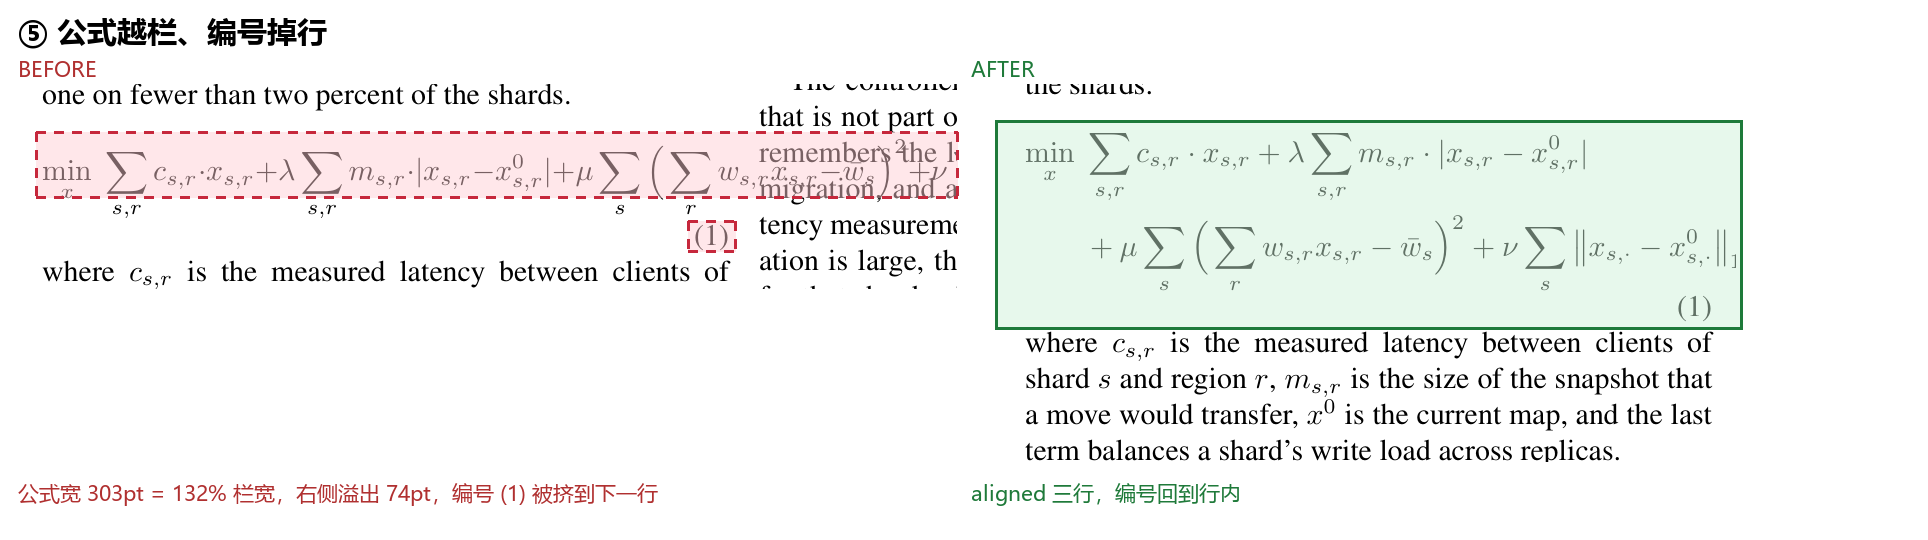
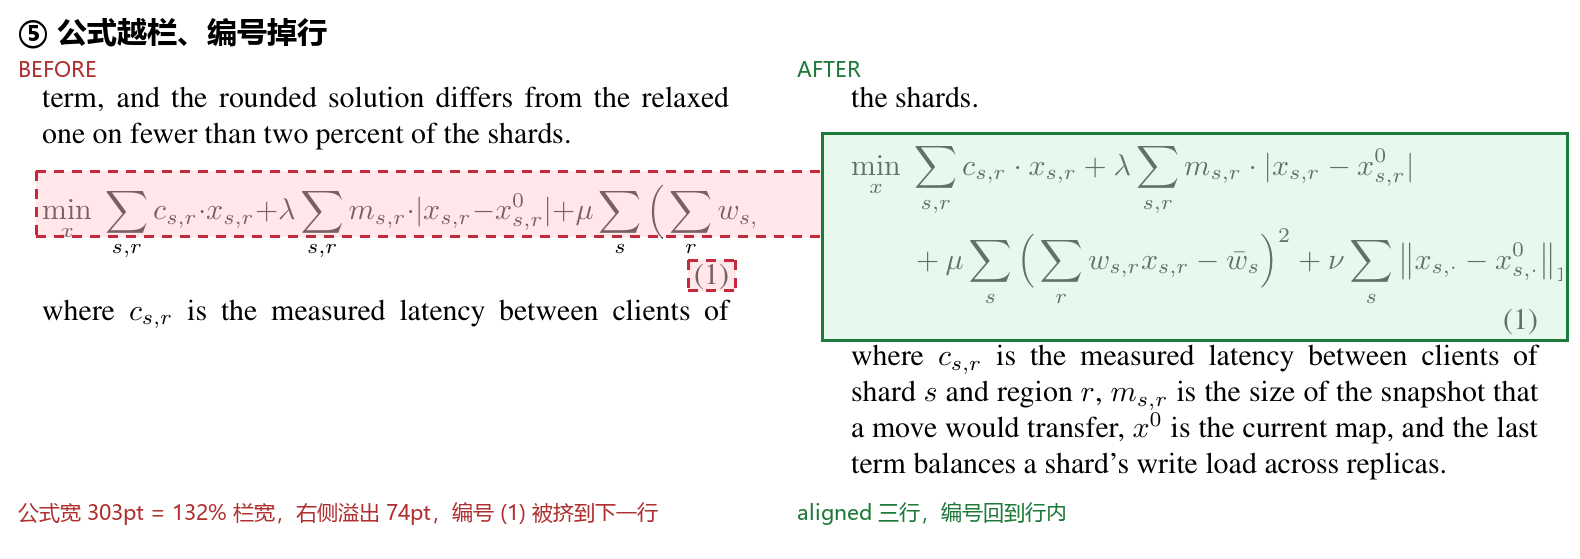
Crop comparison panels to whole lines so no glyph is cut at the edges

diff --git a/examples/demo2/compose_compare.py b/examples/demo2/compose_compare.py
@@ -1,4 +1,4 @@
-# -*- coding: utf-8 -*-
+# -*- coding: utf-8 -*-
 """知乎风格局部对比图：每行一对裁剪，红虚线=修复前的问题，绿虚线=修复后。"""
 import fitz
 from PIL import Image, ImageDraw, ImageFont
@@ -61,10 +61,42 @@ def block_of(page, text):
             return r
     return h
 
-def crop(page, rect, pad=2):
-    r = fitz.Rect(rect.x0 - pad, rect.y0 - pad, rect.x1 + pad, rect.y1 + pad)
+def crop(page, rect, pad=2, pady=None):
+    py = pad if pady is None else pady
+    r = fitz.Rect(rect.x0 - pad, rect.y0 - py, rect.x1 + pad, rect.y1 + py)
     pix = page.get_pixmap(matrix=fitz.Matrix(ZOOM, ZOOM), clip=r)
     return Image.frombytes("RGB", (pix.width, pix.height), pix.samples), r
+
+
+def rows_of(page):
+    """页面上的文本行矩形（用于把裁剪边对齐到整行）。"""
+    out = []
+    for b in page.get_text("dict")["blocks"]:
+        for l in b.get("lines", []):
+            r = fitz.Rect(l["bbox"])
+            if r.height > 1 and r.width > 20:
+                out.append(r)
+    return out
+
+
+def snap(page, rect):
+    """把裁剪边扩到整行：上下各取相邻完整行，不留半截字。"""
+    rs = [r for r in rows_of(page)
+          if r.x1 > rect.x0 + 1 and r.x0 < rect.x1 - 1]
+    top, bot = rect.y0, rect.y1
+    inside = [r for r in rs if r.y0 <= rect.y0 <= r.y1]
+    if inside:
+        top = min(r.y0 for r in inside)
+    else:
+        up = [r.y0 for r in rs if r.y0 < rect.y0]
+        top = max(up) if up else rect.y0
+    inside = [r for r in rs if r.y0 <= rect.y1 <= r.y1]
+    if inside:
+        bot = max(r.y1 for r in inside)
+    else:
+        down = [r.y1 for r in rs if r.y1 > rect.y1]
+        bot = min(down) if down else rect.y1
+    return fitz.Rect(rect.x0, top, rect.x1, bot)
 
 
 def mark(layer, r, origin, off, color, tint, scale, dashed_flag=True, w=3, dash=9):
@@ -138,13 +170,13 @@ def main():
     r1 = hit(bdoc, 1, "quorum constraint.")
     b0, b1 = col_of(r1.x0)
     box1 = fitz.Rect(b0, r1.y0 - 2, r1.x1 + 2, r1.y1 + 2)
-    rb = fitz.Rect(b0, r1.y0 - 52, b1, r1.y1 + 10)
-    ib, ub = crop(bdoc[1], rb)
+    rb = snap(bdoc[1], fitz.Rect(b0, r1.y0 - 52, b1, r1.y1 + 10))
+    ib, ub = crop(bdoc[1], rb, pady=0)
     r2 = hit(adoc, 1, "quorum constraint.")
     a0, a1 = col_of(r2.x0)
     box2 = fitz.Rect(a0, r2.y0 - 2, r2.x1 + 2, r2.y1 + 2)
-    ra = fitz.Rect(a0, r2.y0 - 52, a1, r2.y1 + 10)
-    ia, ua = crop(adoc[1], ra)
+    ra = snap(adoc[1], fitz.Rect(a0, r2.y0 - 52, a1, r2.y1 + 10))
+    ia, ua = crop(adoc[1], ra, pady=0)
     rows.append(("① 段落末行（寡行）", ib, ub, [box1], ia, ua, [box2],
                  "末行只占栏宽 33%", "末行撑到 66%"))
 
@@ -168,7 +200,7 @@ def main():
     ta = tbl(adoc, 2, ca)
     ra = fitz.Rect(LEFT[0] - 8, ca.y0 - 6, LEFT[1] + 6, ta.y1 + 26)
     ia, ua = crop(adoc[2], ra)
-    rows.append(("② 表格没撑满栏宽", ib, ub, [tb], ia, ua, [ta],
+    rows.append(("③ 表格没撑满栏宽", ib, ub, [tb], ia, ua, [ta],
                  f"表宽 {tb.width:.0f}pt / 栏宽 229pt（{tb.width / 229 * 100:.0f}%），两侧各空 {(229 - tb.width) / 2:.0f}pt",
                  f"tabular* 拉满 {ta.width:.0f}pt（= 版心宽）"))
 
@@ -183,7 +215,7 @@ def main():
     ib, ub = crop(bdoc[1], rb)
     ra = fitz.Rect(RIGHT[0] - 4, y0, RIGHT[1] + 4, y1)
     ia, ua = crop(adoc[1], ra)
-    rows.append(("③ 图片两侧留白", ib, ub,
+    rows.append(("④ 图片两侧留白", ib, ub,
                  [fb_rect, fitz.Rect(fb_rect.x1, fb_rect.y0, RIGHT[1], fb_rect.y1)],
                  ia, ua, [fa_rect],
                  "图宽 156pt（68%），右侧空 73pt", "width=\\linewidth 顶到栏边"))
@@ -204,33 +236,33 @@ def main():
     obx = same_line_extent(bdoc[1], mb)
     obx.x1 = min(obx.x1, LEFT[1] + 74)
     eqline = fitz.Rect(obx.x0 - 2, obx.y0 - 2, obx.x1 + 2, obx.y1 + 2)
-    rb = fitz.Rect(LEFT[0] - 6, mb.y0 - 22, LEFT[1] + 74, eqb.y1 + 10)
-    ib, ub = crop(bdoc[1], rb)
+    rb = snap(bdoc[1], fitz.Rect(LEFT[0] - 6, mb.y0 - 26, 308.0, eqb.y1 + 10))
+    ib, ub = crop(bdoc[1], rb, pady=0)
     ma = eq_anchor(adoc[1])
     oa = hit(adoc, 1, "(1)")
     blk = fitz.Rect(62, ma.y0 - 6, LEFT[1] + 10, oa.y1 + 2)
-    ra = fitz.Rect(56, ma.y0 - 16, LEFT[1] + 6, oa.y1 + 44)
-    ia, ua = crop(adoc[1], ra)
-    rows.append(("④ 公式越栏、编号掉行", ib, ub, [eqline, fitz.Rect(eqb.x0 - 2, eqb.y0, eqb.x1 + 2, eqb.y1)],
+    ra = snap(adoc[1], fitz.Rect(56, ma.y0 - 16, LEFT[1] + 6, oa.y1 + 44))
+    ia, ua = crop(adoc[1], ra, pady=0)
+    rows.append(("⑤ 公式越栏、编号掉行", ib, ub, [eqline, fitz.Rect(eqb.x0 - 2, eqb.y0, eqb.x1 + 2, eqb.y1)],
                  ia, ua, [blk],
                  f"公式宽 {obx.width:.0f}pt = {obx.width / 229 * 100:.0f}% 栏宽，右侧溢出 {obx.x1 - LEFT[1]:.0f}pt，编号 (1) 被挤到下一行",
                  "aligned 三行，编号回到行内"))
 
     # ⑤ 章节层级：2.1.1 → 行内 paragraph
     hb = hit(bdoc, 1, "2.1.1")
-    rb = fitz.Rect(LEFT[0], hb.y0 - 22, LEFT[1], hb.y1 + 40)
-    ib, ub = crop(bdoc[1], rb)
+    rb = snap(bdoc[1], fitz.Rect(LEFT[0], hb.y0 - 22, LEFT[1], hb.y1 + 40))
+    ib, ub = crop(bdoc[1], rb, pady=0)
     ha = hit(adoc, 1, "Relaxation.")
-    ra = fitz.Rect(LEFT[0], ha.y0 - 22, LEFT[1], ha.y1 + 34)
-    ia, ua = crop(adoc[1], ra)
-    rows.append(("⑤ 三级标题把正文切碎", ib, ub,
+    ra = snap(adoc[1], fitz.Rect(LEFT[0], ha.y0 - 22, LEFT[1], ha.y1 + 34))
+    ia, ua = crop(adoc[1], ra, pady=0)
+    rows.append(("⑥ 三级标题把正文切碎", ib, ub,
                  [fitz.Rect(LEFT[0], hb.y0 - 6, LEFT[0] + 150, hb.y1 + 2)],
                  ia, ua, [fitz.Rect(LEFT[0], ha.y0 - 4, LEFT[0] + 82, ha.y1 + 1)],
                  "2.1.1 Relaxation 独占一行＋上下空行", "Relaxation. 变成行内小标题"))
 
     f_t = ImageFont.truetype(FONT_B, 30)
     f_s = ImageFont.truetype(FONT_R, 21)
-    names = ["01-widow", "02-table", "03-figure", "04-equation", "05-heading"]
+    names = ["01-widow", "03-table", "04-figure", "05-equation", "06-heading"]
 
     for name, (title, ib, ub, bb, ia, ua, ba, lb, la) in zip(names, rows):
         sb, sa = ib, ia
